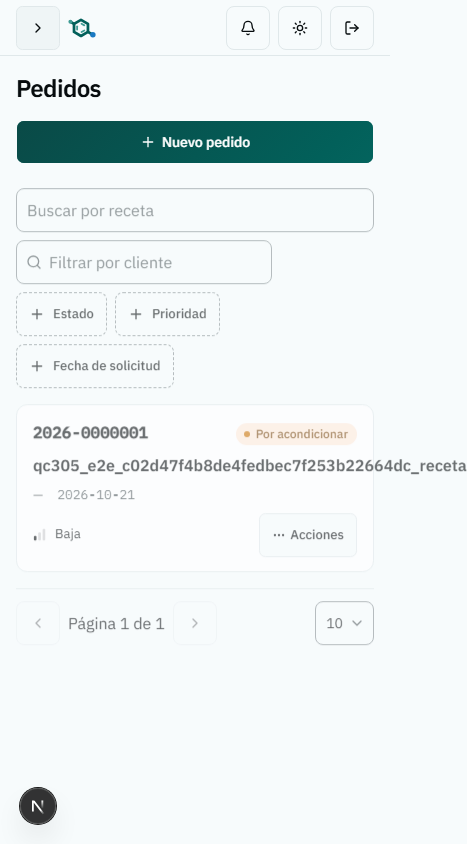
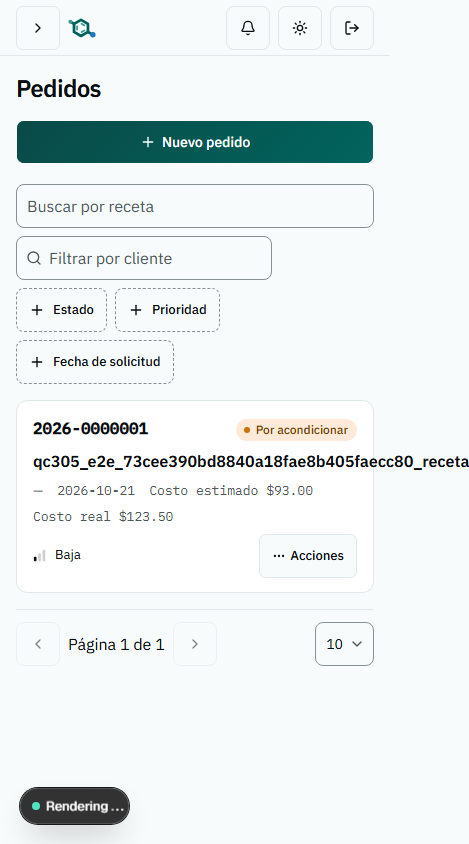
feat(QC-305): costes estimado y real en la tarjeta de telefono del listado
R19 (decision 2026-10-21, opcion b): ORDER_TABLE_CARD muestra Costo estimado y Costo real
con formatMoneyDisplay y guion sin valor; spec y design corregidos; T9 cerrada.

diff --git a/tests/unit/pedidos-ui/order-cards.test.tsx b/tests/unit/pedidos-ui/order-cards.test.tsx
@@ -2,11 +2,17 @@
 // y las tarjetas estan las dos en el arbol: aqui se mira la tarjeta y su menu centrado, y que los
 // estados de la lista no cambian por tenerla.
 
+import { readFileSync } from 'node:fs';
+import { join } from 'node:path';
+
 import { cleanup, render, screen, waitFor, within } from '@testing-library/react';
 import { afterEach, beforeEach, describe, expect, it, vi } from 'vitest';
 
 import {
+  ACTUAL_COST_COLUMN_ID,
+  ACTUAL_COST_TESTID,
   CANCEL_ORDER_ID_TESTID,
+  MISSING_VALUE_MARK,
   ORDER_ACTION_CUSTOMER_TESTID,
   ORDER_CUSTOMER_DIALOG_TESTID,
   ORDER_LIST_NO_MATCHES_TESTID,
@@ -16,6 +22,8 @@ import {
   ORDER_TABLE_TEXTS,
   OrderTable,
   PAGE_PARAM,
+  PRODUCTION_COST_COLUMN_ID,
+  PRODUCTION_COST_TESTID,
 } from '@/app/(private)/pedidos/components';
 import type { DataTableParams } from '@/components/shared/data-table';
 import { formatOrderNumber, type OrderSummary } from '@/lib/modules/pedidos';
@@ -325,5 +333,66 @@ describe('los estados de la lista no cambian con las tarjetas', () => {
 
     const href = routerMock.push.mock.calls.at(-1)?.[0] ?? '';
     expect(new URLSearchParams(href.slice(href.indexOf('?') + 1)).get(PAGE_PARAM)).toBe('2');
+  });
+});
+
+// QC-305 R19 (decision 2026-10-21, opcion b) — la tarjeta de telefono lleva tambien los dos costes,
+// con la MISMA celda que la tabla: rotulo de tarjeta delante, importe con `formatMoneyDisplay` y el
+// exacto en `title` si se redondea, o el guion «Sin dato».
+describe('R19: los costes en la tarjeta de telefono', () => {
+  const CON_COSTES = pedido('o3', 9, { ingredientsCost: '120.0000', actualCost: '12752.5512' });
+
+  it('R19: con valor, «Costo estimado» y «Costo real» con su importe, en ese orden, tras la fecha', () => {
+    montar({ orders: [CON_COSTES] });
+    const card = tarjeta(CON_COSTES);
+
+    const estimado = campo(card, PRODUCTION_COST_COLUMN_ID);
+    const real = campo(card, ACTUAL_COST_COLUMN_ID);
+    expect(within(estimado).getByText('Costo estimado')).toHaveAttribute('data-card-label');
+    expect(within(real).getByText('Costo real')).toHaveAttribute('data-card-label');
+
+    const importeEstimado = within(estimado).getByTestId(PRODUCTION_COST_TESTID);
+    expect(importeEstimado.textContent).toBe('$120.00');
+    expect(importeEstimado).not.toHaveAttribute('title');
+    const importeReal = within(real).getByTestId(ACTUAL_COST_TESTID);
+    expect(importeReal.textContent).toBe('$12,752.55');
+    expect(importeReal).toHaveAttribute('title', '12752.5512');
+
+    const fecha = campo(card, 'createdAt');
+    expect(fecha.compareDocumentPosition(estimado) & Node.DOCUMENT_POSITION_FOLLOWING).toBeTruthy();
+    expect(estimado.compareDocumentPosition(real) & Node.DOCUMENT_POSITION_FOLLOWING).toBeTruthy();
+  });
+
+  it('R19: sin valor, el guion con el rotulo accesible «Sin dato», nunca 0', () => {
+    montar({ orders: [SIN_CLIENTE] });
+    const card = tarjeta(SIN_CLIENTE);
+
+    for (const id of [PRODUCTION_COST_COLUMN_ID, ACTUAL_COST_COLUMN_ID]) {
+      const celda = campo(card, id);
+      const guion = within(celda).getByTestId(`order-missing-${id}`);
+      expect(guion, id).toHaveTextContent(MISSING_VALUE_MARK);
+      expect(guion, id).toHaveAccessibleName('Sin dato');
+      expect(celda, id).not.toHaveTextContent('0');
+    }
+  });
+
+  it('R19: el rotulo de tarjeta no cambia el texto del importe en la fila de la tabla', () => {
+    montar({ orders: [CON_COSTES] });
+    const fila = screen.getByTestId(`data-table-row-${CON_COSTES.id}`);
+
+    expect(within(fila).getByTestId(ACTUAL_COST_TESTID).textContent).toBe('$12,752.55');
+    expect(within(fila).getByText('Costo real')).toHaveClass('[table_&]:hidden');
+  });
+
+  // Sin `pedidos.consultar` la pantalla entera da 404 antes de pintar nada: es la misma condicion
+  // que decide las columnas. La tarjeta no tiene otra: sus costes salen de esas mismas columnas.
+  it('R19: sin pedidos.consultar no aparecen: la pagina corta antes de pintar la lista', () => {
+    const fuente = readFileSync(join(process.cwd(), 'app/(private)/pedidos/page.tsx'), 'utf8');
+    const corte = fuente.indexOf("await requirePagePermission('pedidos.consultar');");
+    expect(corte).toBeGreaterThan(-1);
+    expect(corte).toBeLessThan(fuente.indexOf('<OrderListSection'));
+
+    const tabla = readFileSync(join(process.cwd(), 'app/(private)/pedidos/components/order-table.tsx'), 'utf8');
+    expect(tabla).not.toMatch(/canSee\w*Cost|hasPermission|requirePermission/);
   });
 });

diff --git a/app/(private)/pedidos/components/order-columns.tsx b/app/(private)/pedidos/components/order-columns.tsx
@@ -1,5 +1,6 @@
 'use client';
 
+import { withCardFieldLabel } from '@/components/shared/card-field-label';
 import { actionsColumn, type DataTableColumn } from '@/components/shared/data-table';
 import { OrderDistributionLabel } from '@/components/shared/order-distribution-label';
 import type { OrderResponsible } from '@/lib/modules/asignaciones';
@@ -220,7 +221,13 @@ function producedProductsOf(
 /**
  * Celda de importe. El estimado es `ingredientsCost` y NADA MAS: ya incluye los envases, y sumar
  * `packagingCost` los contaria dos veces. Sin importe, el marcador de ausencia; nunca `0`.
+ *
+ * QC-305 R19 — la misma celda va a la tarjeta de telefono con su rotulo delante
+ * (`withCardFieldLabel`), que dentro de la tabla se oculta: la cabecera ya lo dice.
  */
+export const PRODUCTION_COST_LABEL = 'Costo estimado';
+export const ACTUAL_COST_LABEL = 'Costo real';
+
 const COST_TESTIDS = {
   [PRODUCTION_COST_COLUMN_ID]: PRODUCTION_COST_TESTID,
   [ACTUAL_COST_COLUMN_ID]: ACTUAL_COST_TESTID,
@@ -233,11 +240,16 @@ function CostCell({
   readonly value: string | null;
   readonly field: keyof typeof COST_TESTIDS;
 }) {
-  if (value === null) return <MissingValue field={field} />;
-  return (
-    <span data-testid={COST_TESTIDS[field]} title={exactDecimalTitle(value)}>
-      {formatMoneyDisplay(value)}
-    </span>
+  const label = field === PRODUCTION_COST_COLUMN_ID ? PRODUCTION_COST_LABEL : ACTUAL_COST_LABEL;
+  return withCardFieldLabel(
+    label,
+    value === null ? (
+      <MissingValue field={field} />
+    ) : (
+      <span data-testid={COST_TESTIDS[field]} title={exactDecimalTitle(value)}>
+        {formatMoneyDisplay(value)}
+      </span>
+    ),
   );
 }
 
@@ -380,14 +392,14 @@ export function buildOrderColumns({
     },
     {
       id: PRODUCTION_COST_COLUMN_ID,
-      label: 'Costo estimado',
+      label: PRODUCTION_COST_LABEL,
       align: 'end',
       tabular: true,
       cell: (order) => <CostCell value={order.ingredientsCost} field={PRODUCTION_COST_COLUMN_ID} />,
     },
     {
       id: ACTUAL_COST_COLUMN_ID,
-      label: 'Costo real',
+      label: ACTUAL_COST_LABEL,
       align: 'end',
       tabular: true,
       cell: (order) => <CostCell value={order.actualCost} field={ACTUAL_COST_COLUMN_ID} />,

diff --git a/e2e/coste-real-de-produccion.spec.ts b/e2e/coste-real-de-produccion.spec.ts
@@ -682,14 +682,27 @@ test.describe('coste real de producción', () => {
     await expectAmountCell(row.getByTestId(ACTUAL_COST_TESTID), expectedActual);
 
     const screenshotsDir = process.env.E2E_SCREENSHOTS_DIR;
+    const desktopViewport = page.viewportSize();
     if (screenshotsDir !== undefined && testInfo.project.name === 'chromium') {
       await row.getByTestId(ACTUAL_COST_TESTID).scrollIntoViewIfNeeded();
       await page.screenshot({ path: join(screenshotsDir, 'escritorio.png') });
-      await page.setViewportSize(PHONE_VIEWPORT);
-      await openOrders(page);
-      await expect(page.getByTestId(`data-table-card-${order.id}`)).toBeVisible({ timeout: 60_000 });
+    }
+
+    // R19 (decision 2026-10-21, opcion b): la tarjeta de telefono lleva los dos costes rotulados.
+    await page.setViewportSize(PHONE_VIEWPORT);
+    await openOrders(page);
+    const card = page.getByTestId(`data-table-card-${order.id}`);
+    await expect(card).toBeVisible({ timeout: 60_000 });
+    const cardEstimated = card.getByTestId(`data-table-card-field-${ESTIMATED_COST_COLUMN_ID}`);
+    const cardActual = card.getByTestId(`data-table-card-field-${ACTUAL_COST_COLUMN_ID}`);
+    await expect(cardEstimated).toContainText(ESTIMATED_COST_LABEL);
+    await expect(cardActual).toContainText(ACTUAL_COST_LABEL);
+    await expectAmountCell(cardEstimated.getByTestId(ESTIMATED_COST_TESTID), estimated);
+    await expectAmountCell(cardActual.getByTestId(ACTUAL_COST_TESTID), expectedActual);
+    if (screenshotsDir !== undefined && testInfo.project.name === 'chromium') {
       await page.screenshot({ path: join(screenshotsDir, 'telefono.png'), fullPage: true });
     }
+    if (desktopViewport !== null) await page.setViewportSize(desktopViewport);
 
     // --- 7. R16, R22: el lote de producto terminado cuesta real ÷ envasado (7 l).
     const batch = await prisma.productBatch.findFirstOrThrow({

diff --git a/app/(private)/pedidos/components/order-table.tsx b/app/(private)/pedidos/components/order-table.tsx
@@ -19,9 +19,11 @@ import type { OrderCoverage } from '@/lib/modules/inventario';
 import { cn } from '@/lib/utils';
 
 import {
+  ACTUAL_COST_COLUMN_ID,
   buildOrderColumns,
   ORDER_CUSTOMER_NAME_COLUMN_ID,
   ORDER_NUMBER_COLUMN_ID,
+  PRODUCTION_COST_COLUMN_ID,
   RECIPE_NAME_COLUMN_ID,
 } from './order-columns';
 import { OrderCustomerFilter } from './order-customer-filter';
@@ -105,11 +107,16 @@ export const ORDER_TABLE_TEXTS: DataTableTexts = {
   closeMenu: 'Cerrar',
 };
 
+/**
+ * La tarjeta de telefono. QC-305 R19: los dos costes van en los datos secundarios, en el orden de
+ * la tabla, con la MISMA celda (rotulo de tarjeta, importe o «Sin dato»). Sin condicion propia: la
+ * pantalla entera exige `pedidos.consultar`, que es lo que decide tambien las columnas.
+ */
 const ORDER_TABLE_CARD: DataTableCardLayout = {
   primary: ORDER_NUMBER_COLUMN_ID,
   status: STATUS_COLUMN_ID,
   title: RECIPE_NAME_COLUMN_ID,
-  meta: [ORDER_CUSTOMER_NAME_COLUMN_ID, CREATED_AT_COLUMN_ID],
+  meta: [ORDER_CUSTOMER_NAME_COLUMN_ID, CREATED_AT_COLUMN_ID, PRODUCTION_COST_COLUMN_ID, ACTUAL_COST_COLUMN_ID],
   footer: PRIORITY_COLUMN_ID,
 };
 

diff --git a/progress/impl_QC-305.md b/progress/impl_QC-305.md
@@ -454,7 +454,7 @@ Enmiendas de una línea añadidas al pie de los `requirements.md` de QC-281, QC-
 | R16 | `order-packing.test.ts` «R16: los lotes llevan el real entre lo envasado…», «R16: el coste real se reparte entre los 12 L envasados…»; `actual-order-cost.int.test.ts` «R1, R5, R6, R16, R22»; E2E R26 (e) (17.6429 = 123.5 ÷ 7) |
 | R17 | `order-packing.test.ts` «R17: si un lote consumido no tiene coste…», «R17: un pedido con reparto y sin ningun consumo…»; `actual-order-cost.int.test.ts` «R7, R17, R22…»; `finish-with-finished-goods.int.test.ts` «QC-305 P1 / R7, R17…»; `tests/unit/inventario/schema/finished-goods-lot-cost-optional-migration.test.ts` (CHECK retirado, decisión 2026-10-21) |
 | R18 | `actual-order-cost.int.test.ts` «R18: un lote de producto terminado nacido con el estimado, antes de esta ficha, conserva su coste…», «R16, R18: un segundo Terminar…» |
-| R19 | `tests/unit/pedidos-ui/order-columns.test.tsx` «R19: son contiguas, en ese orden…», «R19: se rotulan «Costo estimado» y «Costo real»…», «R19: ninguna de las dos ordena ni filtra»; E2E R26 (d). **Tarjeta de teléfono: ABIERTO** (ver abajo) |
+| R19 | `tests/unit/pedidos-ui/order-columns.test.tsx` «R19: son contiguas, en ese orden…», «R19: se rotulan «Costo estimado» y «Costo real»…», «R19: ninguna de las dos ordena ni filtra»; tarjeta: `tests/unit/pedidos-ui/order-cards.test.tsx` › «R19: los costes en la tarjeta de telefono» (4 casos, ver T9b); E2E R26 (d) tabla y tarjeta |
 | R20 | `order-columns.test.tsx` «R20: sin coste real pinta el guion con el rotulo «Sin dato», nunca 0 ni vacio», «R20: sin estimado pinta el guion…», «R20: el real no cae al estimado cuando falta» |
 | R21 | `order-columns.test.tsx` «R21: un importe exacto a dos decimales no lleva `title`» (`$120.00`), «R21: un importe que se redondea expone el exacto en el `title`» (`$12,752.55`, `title` `12752.5512`), «R21: el real se pinta de `actualCost`…»; decisión 2026-10-21 sin espacio |
 | R22 | `actual-order-cost.int.test.ts` «R1, R5, R6, R16, R22» (tab: `unitCost` 14.5000, `totalCost` 145.0000) y «R7, R17, R22» (guion: `null`); `list-finished-product-costs.test.ts` (null → guion, existente); E2E R26 (e) |
@@ -463,9 +463,50 @@ Enmiendas de una línea añadidas al pie de los `requirements.md` de QC-281, QC-
 | R25 | `orders-actual-cost-migration.test.ts` (columna opcional en `orders`, sin tabla nueva, `down.sql` exacto, borrado lógico y marcas conservados) |
 | R26 | `e2e/coste-real-de-produccion.spec.ts` › «R26, R1, R12, R16, R19, R21, R22 - …» (chromium 1/1 en 2.4m, webkit 1/1 en 2.8m, base propia `qc305_e2e` borrada) |
 
-### Abierto al cierre: R19 en la tarjeta del listado (teléfono)
+### Cerrado: decision 2026-10-21 opcion b
 
-Por debajo de 760 px el listado pasa a tarjetas y `ORDER_TABLE_CARD` (`app/(private)/pedidos/components/order-table.tsx:108`)
-solo pinta número, estado, receta, cliente, fecha y prioridad: ni el estimado (tampoco antes de esta ficha) ni el real.
-Design §5.1 daba por hecho que «la tarjeta sale de las columnas de DataTable»; no es así. Captura:
-`progress/capturas/QC-305/telefono.png` (escritorio: `progress/capturas/QC-305/escritorio.png`). Pendiente de decisión humana.
+R19 en la tarjeta del listado (teléfono): la tarjeta muestra «Costo estimado» y «Costo real». Detalle en T9b.
+
+## T9b — costes en la tarjeta (R19) (frontend_dev, 2026-10-21)
+
+Decisión humana 2026-10-21, opción b; sin pase `/design` (excepción declarada, como P3).
+
+### Archivos
+- `app/(private)/pedidos/components/order-columns.tsx`: `CostCell` envuelve importe o «Sin dato» con
+  `withCardFieldLabel` (rótulo de tarjeta existente, oculto dentro de `<table>`); constantes `PRODUCTION_COST_LABEL` y
+  `ACTUAL_COST_LABEL`, que también rotulan las cabeceras.
+- `app/(private)/pedidos/components/order-table.tsx`: `ORDER_TABLE_CARD.meta` añade `productionCost` y `actualCost`
+  tras la fecha. Sin condición propia: la pantalla entera exige `pedidos.consultar`, la misma que decide las columnas.
+  Sin tocar `DataTable` ni `DataTableCardLayout`.
+- `tests/unit/pedidos-ui/order-cards.test.tsx`: bloque nuevo «R19: los costes en la tarjeta de telefono».
+- `tests/unit/paridad/__snapshots__/pedidos-paridad.test.tsx.snap`: actualizado con `-u`. Diff revisado: solo los
+  dos campos nuevos de la tarjeta y el rótulo de tarjeta (`[table_&]:hidden`) dentro de las celdas de coste de la tabla
+  (jsdom no aplica el CSS, por eso el nombre de la celda pasa a «Costo estimadoSin dato»; en navegador se oculta).
+- `e2e/coste-real-de-produccion.spec.ts`: el paso 6 pasa siempre a 390×844 y afirma en la tarjeta los rótulos y los
+  importes (`$93.00`, `$123.50` con `title`); las capturas siguen solo con `E2E_SCREENSHOTS_DIR` en chromium.
+- `progress/capturas/QC-305/telefono.png` (y `escritorio.png`) rehechas.
+
+### Tests (order-cards.test.tsx)
+- «R19: con valor, «Costo estimado» y «Costo real» con su importe, en ese orden, tras la fecha» (`$120.00` sin `title`,
+  `$12,752.55` con `title` `12752.5512`).
+- «R19: sin valor, el guion con el rotulo accesible «Sin dato», nunca 0».
+- «R19: el rotulo de tarjeta no cambia el texto del importe en la fila de la tabla».
+- «R19: sin pedidos.consultar no aparecen: la pagina corta antes de pintar la lista» (el corte de la página va antes de
+  `<OrderListSection`, y la tabla no tiene otra condición de permiso).
+
+### Verificación (salida real)
+- `pnpm run typecheck`: `tsc --noEmit`, sin errores.
+- `pnpm run lint`: `✖ 10 problems (0 errors, 10 warnings)`, ninguno en archivos tocados (`eslint` sobre los 4 archivos: sin salida).
+- `pnpm exec vitest run` order-cards, order-columns, order-table, pedidos-viewport, order-list-section,
+  order-row-wiring, paridad/pedidos-paridad: `Test Files 7 passed (7)`, `Tests 209 passed (209)`.
+- E2E chromium, `--workers=1`, base `qc305_e2e` creada de `qct_tpl_06ae9a5f7969` (113 migraciones):
+```
+Running 1 test using 1 worker
+  ✓  1 [chromium] › e2e\coste-real-de-produccion.spec.ts:508:7 › coste real de producción › R26, R1, R12, R16, R19, R21, R22 - … (1.4m)
+  1 passed (1.8m)
+```
+- Al terminar: `DROP DATABASE IF EXISTS qc305_e2e WITH (FORCE)` → `pg_database`: «qc305_e2e existe: false».
+- webkit no se corrió en esta tanda (pedido: solo chromium).
+
+### Veredicto T9b
+R19 cerrado también en la tarjeta: unit y E2E chromium en verde, base borrada.

diff --git a/progress/features/QC-305.md b/progress/features/QC-305.md
@@ -19,7 +19,10 @@ F2.0 (2026-10-21): spec aprobado por el humano (P1–P3 cerradas). F2.1: impleme
 - 2026-10-21: alcance y decisiones cerradas en `specs/QC-305-coste-real-de-produccion/requirements.md > Decisiones cerradas`.
 
 ## Preguntas abiertas
-- 2026-10-21 (T8, R19): en telefono la tarjeta del listado (`ORDER_TABLE_CARD`, `app/(private)/pedidos/components/order-table.tsx:108`) no muestra ni el estimado ni el real (el estimado tampoco salia antes de esta ficha); design §5.1 suponia que la tarjeta sale de las columnas. Opciones: (a) R19 aplica solo a la tabla; (b) anadir `productionCost` y `actualCost` a la tarjeta (cambio visual: pase /design o excepcion declarada). Captura `progress/capturas/QC-305/telefono.png`.
+Ninguna.
+
+## Preguntas cerradas (R19)
+- Cerrada por el humano con la opcion (b), ver requirements.md > Decisiones cerradas. Texto original: 2026-10-21 (T8, R19): en telefono la tarjeta del listado (`ORDER_TABLE_CARD`, `app/(private)/pedidos/components/order-table.tsx:108`) no muestra ni el estimado ni el real (el estimado tampoco salia antes de esta ficha); design §5.1 suponia que la tarjeta sale de las columnas. Opciones: (a) R19 aplica solo a la tabla; (b) anadir `productionCost` y `actualCost` a la tarjeta (cambio visual: pase /design o excepcion declarada). Captura `progress/capturas/QC-305/telefono.png`.
 
 ## Preguntas cerradas (R21)
 - Cerrada por el humano con la opcion (a), ver requirements.md > Decisiones cerradas. Texto original: 2026-10-21 (T7, R21): R21 y tasks.md T7 piden `$ 120.00` / `$ 12,752.55` (con espacio, heredado de QC-151 R18), pero design §5.1 manda `formatMoneyDisplay` (`lib/shared/ui/decimal-display.ts:174`), que pinta `$120.00` sin espacio, como hoy la columna del estimado (fijado por un test existente). El formato con espacio existe en `app/(private)/pedidos/components/order-amount.ts > formatOrderAmount` (bloque de coste del formulario). Implementado con `formatMoneyDisplay`; los tests de R21 no fijan el prefijo. Opciones: (a) corregir R21/T7 a «sin espacio»; (b) las dos columnas a `formatOrderAmount` (cambia también el estimado y su test).
@@ -32,6 +35,7 @@ F2.0 (2026-10-21): spec aprobado por el humano (P1–P3 cerradas). F2.1: impleme
 - 2026-10-21 · T4 (+T4b) · d27c619d, df2bd769 · init.sh cortado por memoria; gate en CI (303 archivos verdes, 0 rojos hasta el corte); local del subagente: typecheck/lint verdes, guard 85/85, integracion 12 archivos 118/0. Migracion 20261021150000_finished_goods_lot_cost_optional (quita el CHECK de unit_cost, decision R17). Test de QC-150 «un ingrediente con material pero sin costo cuenta cero…» reescrito para afirmar P1 (sin coste real, lote PT sin unit_cost), no borrado.
 - 2026-10-21 · T6, T7 · 0284ea0c · gate en CI (local: typecheck verde, lint 0 errores; T6 4 archivos 168/168; T7 6 archivos 160/160 + 12 vecinos de pedidos-ui verdes; guardias 85/85). T7 abierta por el prefijo de R21 (ver Preguntas abiertas). Cerrada despues: R21 sin espacio (decision 2026-10-21).
 - 2026-10-21 · T8, T9 (parcial) · ver commit siguiente · gate en CI (local: typecheck verde; order-columns 79/79 con R21 `$120.00` sin espacio; guard-e2e 27/27; E2E coste-real-de-produccion chromium 1/1 y webkit 1/1 con workers=1, base propia qc305_e2e borrada). Reexport de STARTED_ORDER_STATUSES en `lib/modules/pedidos/index.ts` aceptado por el humano (lo revisa el reviewer). Enmiendas al pie de QC-281, QC-290 y QC-151. T9 sin cerrar: R19 en la tarjeta del listado, abierto.
+- 2026-10-21 · T9 (cierre, R19 tarjeta) · ver commit siguiente · gate en CI (local: typecheck verde, lint 0 errores; 7 archivos de pedidos-ui 209/209 con 4 casos R19 nuevos en order-cards.test.tsx; E2E chromium 1/1 con la tarjeta comprobada a 390x844, webkit no corrido tras este cambio; base qc305_e2e borrada). Costes en `ORDER_TABLE_CARD` por decision humana (b), sin /design (excepcion de P3). telefono.png rehecha.
 
 ## Modelos (overrides)
 

diff --git a/specs/QC-305-coste-real-de-produccion/requirements.md b/specs/QC-305-coste-real-de-produccion/requirements.md
@@ -181,3 +181,4 @@ Ninguna. P1–P3 se cerraron al aprobar el spec (2026-10-21): ver las tres últi
 | 2026-10-21 | Alcance del congelado del estimado | Aprobado tal como lo amplía el spec: tampoco recalcula la edición de reparto y unidad (QC-170) en `EN_CURSO`/`POR_EMPACAR` (R13), y el formulario de un pedido comenzado deja de recotizar (R15, enmienda QC-151 R12 solo para comenzados). *Humano, F1.4.* |
 | 2026-10-21 | R17: el CHECK de QC-150/QC-281 se quita por migración; lote PT sin coste real = unit_cost NULL | `product_batches_package_content_requires_unit_cost` impedía un lote de producto terminado sin `unit_cost`. Se quita por una migración con `down.sql` (`unit_cost_positive` se queda). Sin coste real el lote nace con `unit_cost` NULL; quien lee lotes de PT lo trata como «sin coste» (guion), nunca 0 ni el estimado. *Humano, F2.1, al desbloquear T4.* |
 | 2026-10-21 | R21: el listado usa formatMoneyDisplay ($120.00, sin espacio), igual que el estimado; el formulario sigue con formatOrderAmount | R21 pedía `$ 120.00` (con espacio, de QC-151 R18) y design §5.1 reutilizaba `formatMoneyDisplay`, que pinta `$120.00`. Gana el design: las dos columnas del listado se ven igual. El bloque de coste del formulario (`formatOrderAmount`, `$ 1,234.50`) no cambia. *Humano, F2.1, al cerrar T7.* |
+| 2026-10-21 | R19: la tarjeta de teléfono del listado muestra «Costo estimado» y «Costo real» | La tarjeta (`ORDER_TABLE_CARD`) no sale de las columnas y no pintaba ningún coste. Se añaden los dos a la tarjeta con el estilo de campo de tarjeta existente, `formatMoneyDisplay`, guion sin valor y solo con `pedidos.consultar`, como la tabla. Sin pase `/design`: excepción declarada, la misma de P3. *Humano, F2.1, al cerrar T8.* |

diff --git a/specs/QC-305-coste-real-de-produccion/design.md b/specs/QC-305-coste-real-de-produccion/design.md
@@ -219,7 +219,10 @@ cotización (`quoteOrderCostAction`) no cambia: es la UI la que deja de llamarla
   `tabular: true`, sin `sortable` ni `filter`, `data-testid` `order-actual-cost`. Celda: la de
   `ProductionCost` generalizada a un `CostCell({ value, field })`, con `MissingValue` sin importe y
   `formatMoneyDisplay` + `exactDecimalTitle` con importe.
-- La tarjeta del listado sale de las columnas de `DataTable`: no se toca aparte.
+- **Corrección (2026-10-21, al cerrar T8):** la tarjeta del listado **no** sale de las columnas:
+  la define `ORDER_TABLE_CARD` (`order-table.tsx`), que no pintaba ningún coste. Se le añaden
+  «Costo estimado» y «Costo real» con el estilo de campo de tarjeta existente, `formatMoneyDisplay`,
+  guion sin valor y solo con `pedidos.consultar`, igual que la tabla (R19, excepción de P3).
 
 El implementer comprueba que una preferencia de columnas guardada antes de esta ficha no esconde la
 columna nueva. Si la esconde, lo anota en `progress/impl_QC-305.md`; no se cambia `DataTable` en

diff --git a/specs/QC-305-coste-real-de-produccion/tasks.md b/specs/QC-305-coste-real-de-produccion/tasks.md
@@ -107,7 +107,7 @@
   - Hecho: `pnpm exec playwright test e2e/coste-real-de-produccion.spec.ts` verde en Chromium y
     WebKit.
 
-- [ ] **T9 — Cierre de tanda**. Depende de todo.
+- [x] **T9 — Cierre de tanda**. Depende de todo.
   - Mapa `R<n> → test` en `progress/impl_QC-305.md` (design §11), R23 incluido con el gate de
     dependencias.
   - Nota de enmienda con referencia a QC-305 al pie de los `requirements.md` de QC-281, QC-290 y
